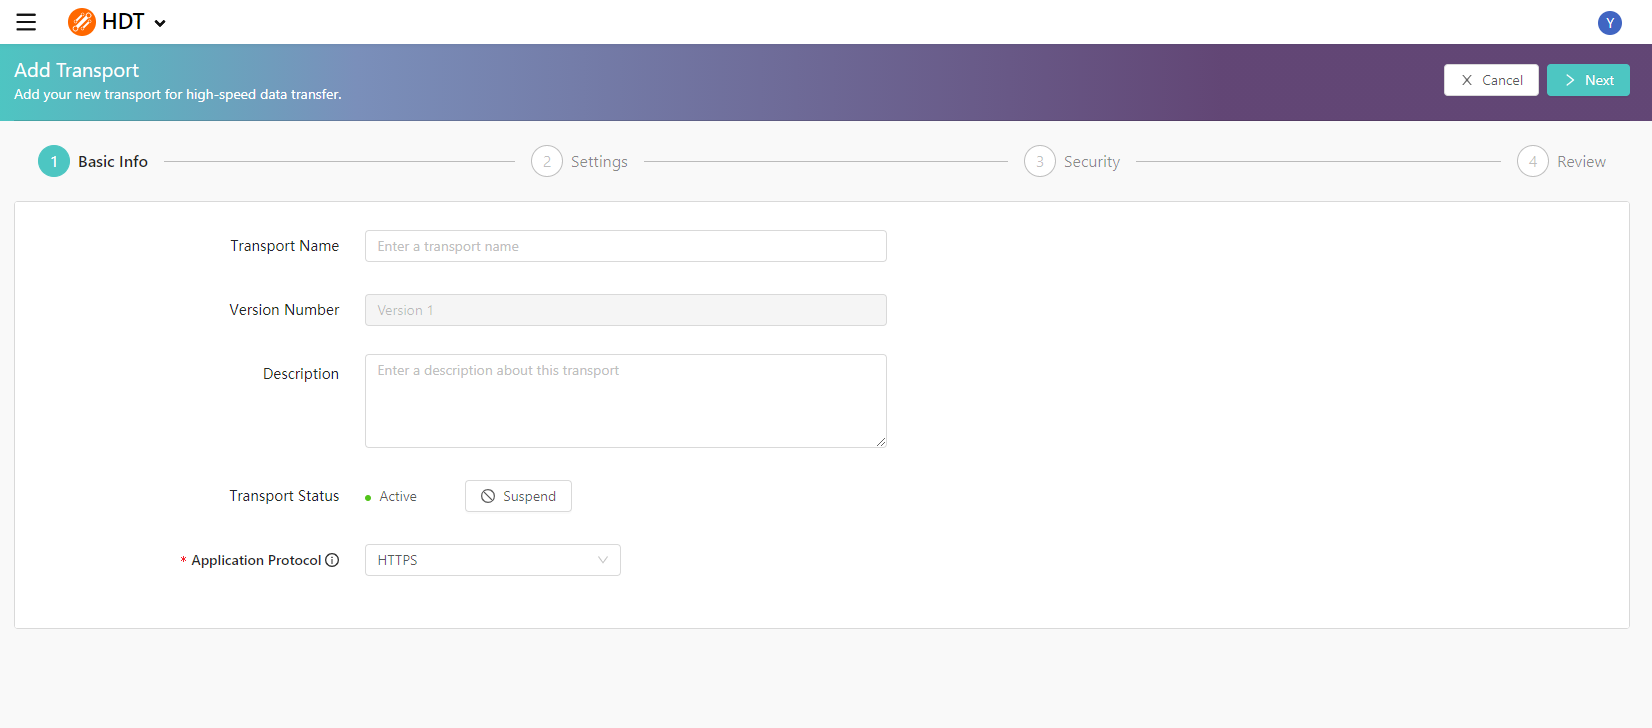
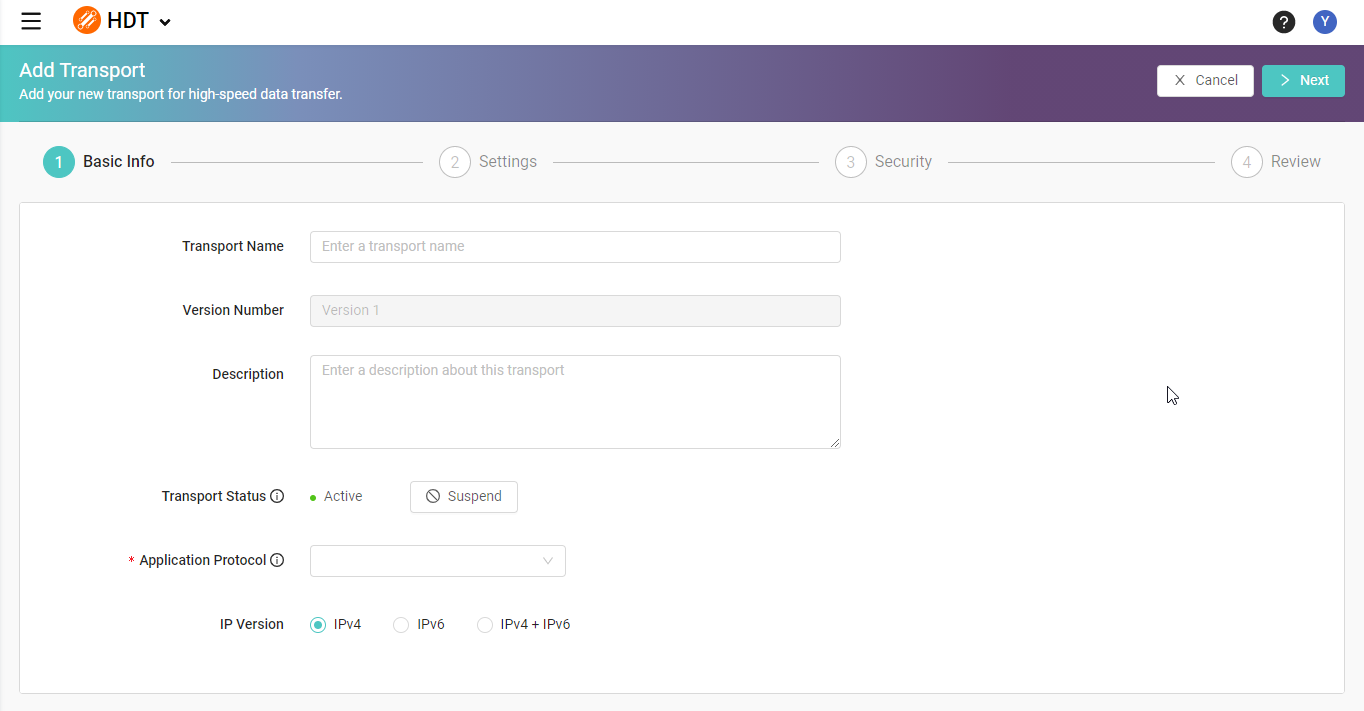
Update for "IPv6 support" and "VPL usage support" features
Update for "IPv6 support" and "VPL usage support" features

diff --git a/docs/portal/dashboard.md b/docs/portal/dashboard.md
@@ -1,9 +1,26 @@
-# Understanding the Dashboard
+# Dashboard
 
-The Dashboard appears when you first log in to the {{title}} portal.
+HDT Dashboard give you information about the traffic of your HDT transports.
 
-Its charts provide a snapshot of your account's traffic. Clicking **View Full Report** in the upper right corner of the chart displays the chart on the [Reports page](</docs/portal/reports.md>), where you can define report parameters, and then view the results on the selected chart.
+If you are a reseller with child accounts, you can select the accounts that the dashboards cover (the parent account only, the child account only, or both the parent and child accounts).
 
-![null](</docs/resources/images/dashboard.png>)
+## Understanding the Dashboard
 
-Hold your cursor over data points in the report to view detailed information. The default time zone in the tooltips is from the local browser time. You can also overwrite it by changing the time zone in "My Info".
+The Dashboard appears when you first log into the {{title}} portal. The charts provide a snapshot of your account's traffic, covering "Traffic Volume", "Traffic Bandwidth" and "Requests".
+
+If you are a paid customer of **Virtual Private Line** usage, you can also switch between “Total” and “Virtual Private Line” dashboard by clicking the selection button at the upper right corner.
+
+![null](</docs/resources/images/dashboard/selectTotalOrVpl.png>)
+
+Holding your cursor over the data points in the report, then you can review the detailed information in the tooltips. 
+
+![null](</docs/resources/images/dashboard/dashboard.png>)
+
+The default time zone in the tooltips is from the local browser time. You can also overwrite it by changing the time zone in "My Info".
+
+![null](</docs/resources/images/dashboard/myInfo.png>)
+
+Clicking **View Full Report** in the upper right corner of the chart will display the chart on the [Reports page](</docs/portal/reports.md>), where you can define report parameters, and then view the results on the selected chart.
+
+![null](</docs/resources/images/dashboard/viewFullReport.png>)
+

diff --git a/docs/portal/transports/add-transport.md b/docs/portal/transports/add-transport.md
@@ -11,6 +11,7 @@ The <strong> Transports </strong> page can be reached simply by clicking "Transp
 | Transport Name       | Enter a name that helps you identify this transport, if you leave it empty, the HDT portal will generate a default name in the format of "Target Domain:Target Port" |
 | Version Number       | The version number of the transport configuration in the history. |
 | Application Protocol | <li><strong> HTTP </strong> : For HTTP protocol.</li> <li><strong> HTTPS </strong> : For HTTPS protocol with SNI(Server Name Indication). |
+| IP Version           | The IP version of the your application supports. |
 
 ## Settings
 ![null](</docs/resources/images/transports/add-transport-settings-1.png>)

diff --git a/docs/portal/reports.md b/docs/portal/reports.md
@@ -12,6 +12,8 @@ The following figure shows the key elements on the page.
 
 ![null](</docs/resources/images/reports/reports.png>)
 
+If you are a paid customer of **Virtual Private Line** usage, you can also switch between “Total” and “Virtual Private Line” dashboard by clicking the selection button at the upper right corner.
+
 ## Understanding Report Types
 
 | **HDT Report Options**   | **Description**                               |
